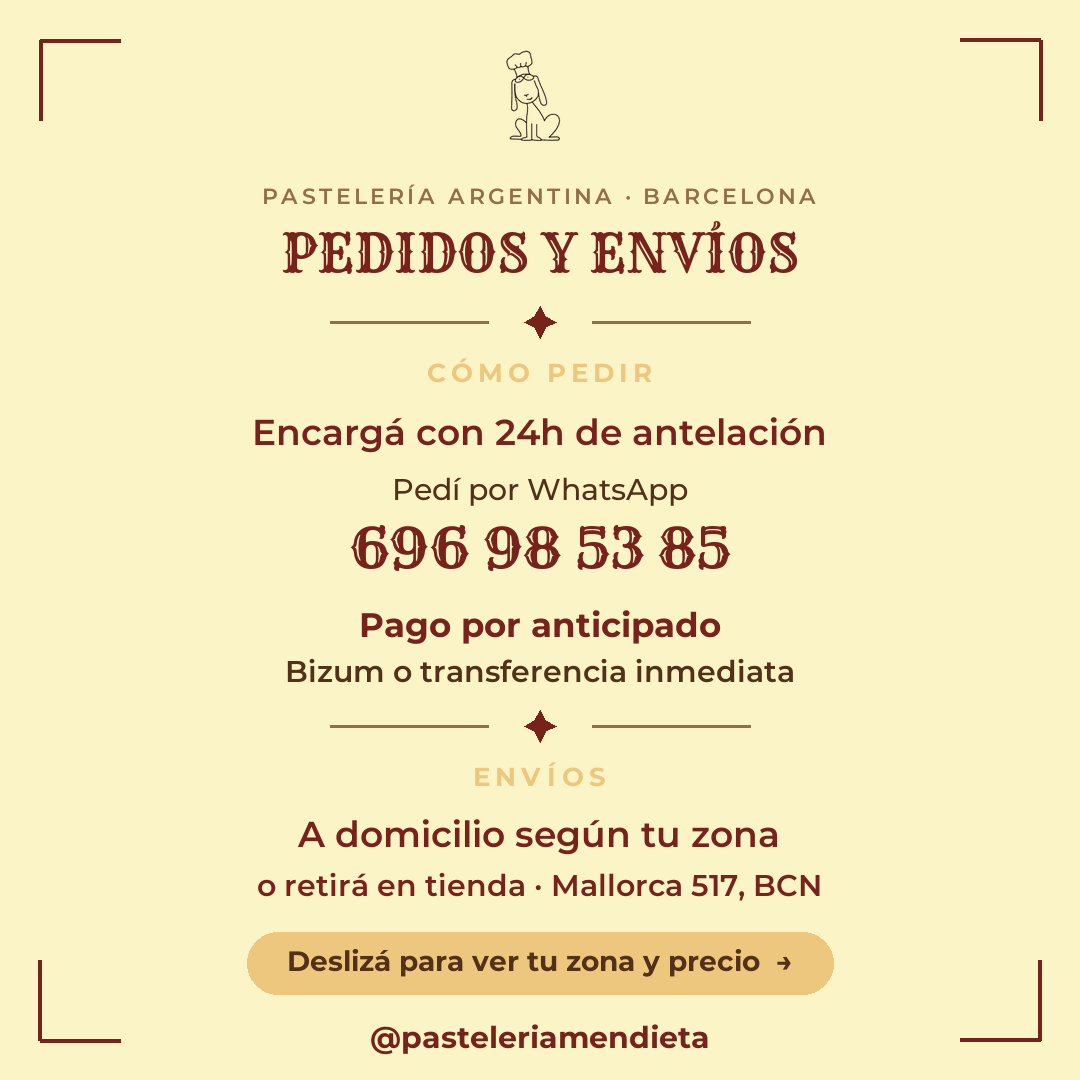
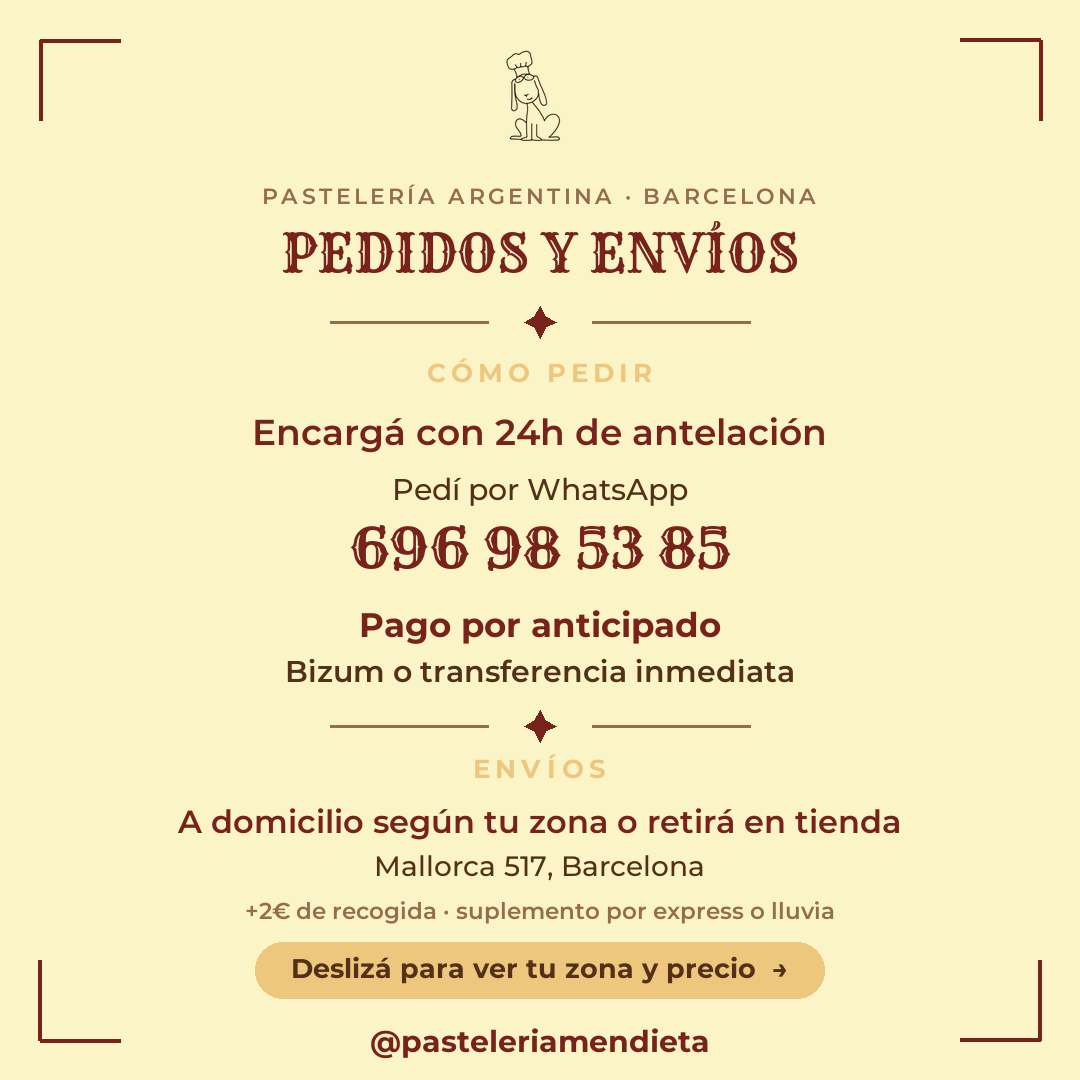
Carrusel envios: agregar nota de recogida (+2€) y suplementos (express +50%, lluvia +30%)
Segun lamess.es/tarifas-barcelona. Slide 1: '+2€ de recogida · suplemento por
express o lluvia'. Slides de zonas: 'Precios + 2€ recogida · suplemento
express +50% / lluvia +30%'. Precios de zona ya actualizados.

Changed region(s): [[0.1528, 0.7028, 0.825, 0.9778], [0.7639, 0.8861, 0.7944, 0.9167]]

diff --git a/scripts/make_carrusel_envios_1x1.py b/scripts/make_carrusel_envios_1x1.py
@@ -109,11 +109,12 @@ def slide1():
     cline(d, 604, "Pago por anticipado", mont(34, 700), BORDO)
     cline(d, 652, "Bizum o transferencia inmediata", mont(30, 600), CACAO)
     divider(d, 726)
-    cline(d, 760, "ENVÍOS", mont(26, 700), MOSTAZA, ls=5)
-    cline(d, 812, "A domicilio según tu zona", mont(36, 600), BORDO)
-    cline(d, 866, "o retirá en tienda · Mallorca 517, BCN", mont(30, 600), BORDO)
-    pill(d, 932, "Deslizá para ver tu zona y precio  →", mont(28, 700), MOSTAZA, CACAO, pad=40, h=62)
-    cline(d, 1018, "@pasteleriamendieta", mont(30, 700), BORDO)
+    cline(d, 752, "ENVÍOS", mont(26, 700), MOSTAZA, ls=5)
+    cline(d, 802, "A domicilio según tu zona o retirá en tienda", mont(32, 600), BORDO)
+    cline(d, 848, "Mallorca 517, Barcelona", mont(28, 500), CACAO)
+    cline(d, 896, "+2€ de recogida · suplemento por express o lluvia", mont(23, 600), CARAMELO)
+    pill(d, 942, "Deslizá para ver tu zona y precio  →", mont(27, 700), MOSTAZA, CACAO, pad=36, h=56)
+    cline(d, 1022, "@pasteleriamendieta", mont(30, 700), BORDO)
     return img
 
 
@@ -124,6 +125,7 @@ def slide_zones(za, zb, last=False):
     divider(d, max(232+136+((len(ZONAS[za][2])+1)//2)*40+22, 600))
     zb_y = max(232+136+((len(ZONAS[za][2])+1)//2)*40+58, 636)
     zone_block(d, zb_y, zb, *ZONAS[zb])
+    cline(d, 980, "Precios + 2€ recogida · suplemento express +50% / lluvia +30%", mont(21, 600), CARAMELO)
     foot = "¿No ves tu código? Escribinos por WhatsApp" if last else "Seguí deslizando  →"
     cline(d, 1024, foot, mont(26, 600), CARAMELO)
     return img
